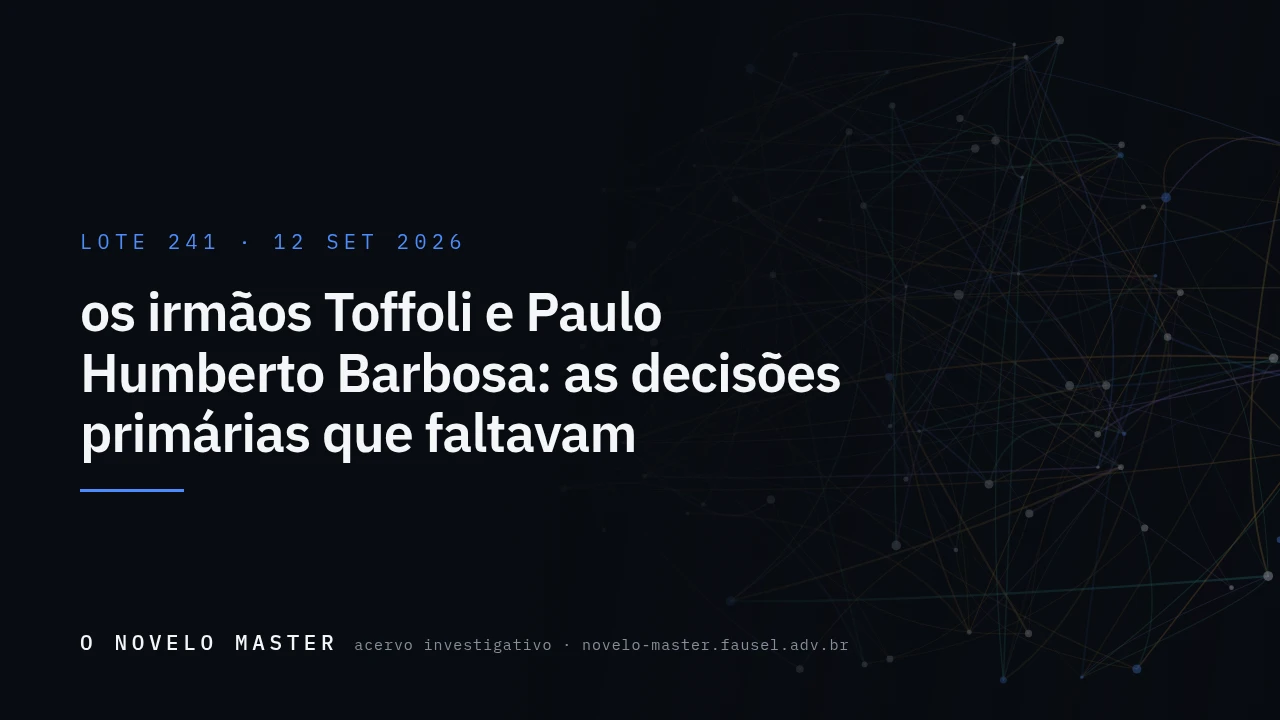
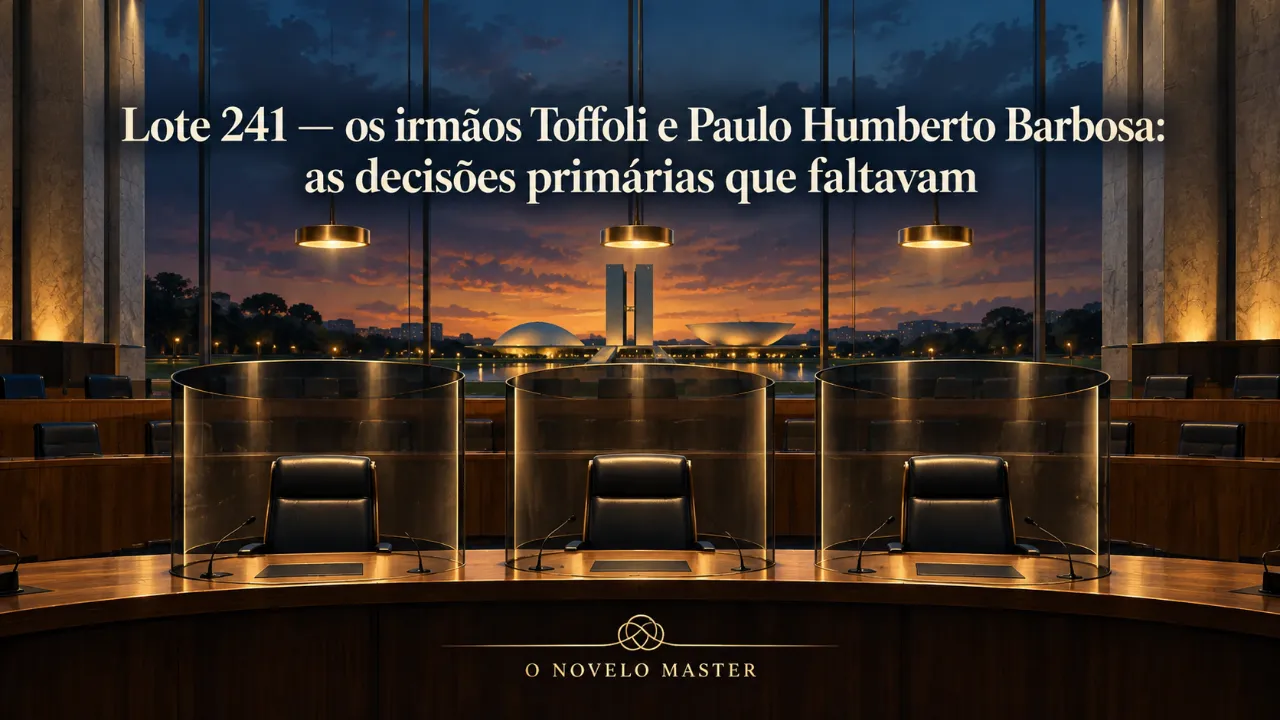
feat(social): ilustrações dos lotes 241 e 242
Geradas pelo Codex às 18h22–18h23 e ausentes da listagem em que baseei o commit
anterior — a mesma falha de não relistar a pasta antes de afirmar que acabou.

Publicadas por `social:add` (PNG → WebP 1280x720).

Checklist da seção 7.1 da EDITORIAL_POLICY, para as duas:
- [x] sem rosto ou pessoa real identificável (não há pessoa)
- [x] nenhuma é retrato fotorrealista
- [x] nenhuma simula documento, print ou cena de fato específica (cadeiras vazias
      e o Congresso ao fundo são cenário)
- [x] nenhuma acrescenta pessoa, fato, número ou alegação ausente da revisão
- [x] texto editorial = título exato da revisão + marca do site
- [x] nenhuma é animada

Verificado: social:check conforme, build 0; as duas com <img> em /atualizacoes.

diff --git a/CHANGELOG.md b/CHANGELOG.md
@@ -7,6 +7,8 @@
 - **Ilustrações dos lotes 236 a 240 publicadas** (80–127 KB), geradas pelo Codex às 18h18–18h22,
   depois da varredura anterior — que por isso as dava, errado, como inexistentes. Mesma inspeção pela
   seção 7.1: título idêntico ao da revisão; no 236, só silhueta de costas.
+- **Ilustrações dos lotes 241 e 242 publicadas**, também geradas às 18h22–18h23 e perdidas na
+  mesma varredura. Sem pessoa; título idêntico ao da revisão.
 
 - **`/atualizacoes` volta a mostrar só ilustração.** O card repetia, ao lado do item, o título que o
   texto já traz em corpo legível, e não acrescentava nada ao leitor da página. Ele continua gerado
